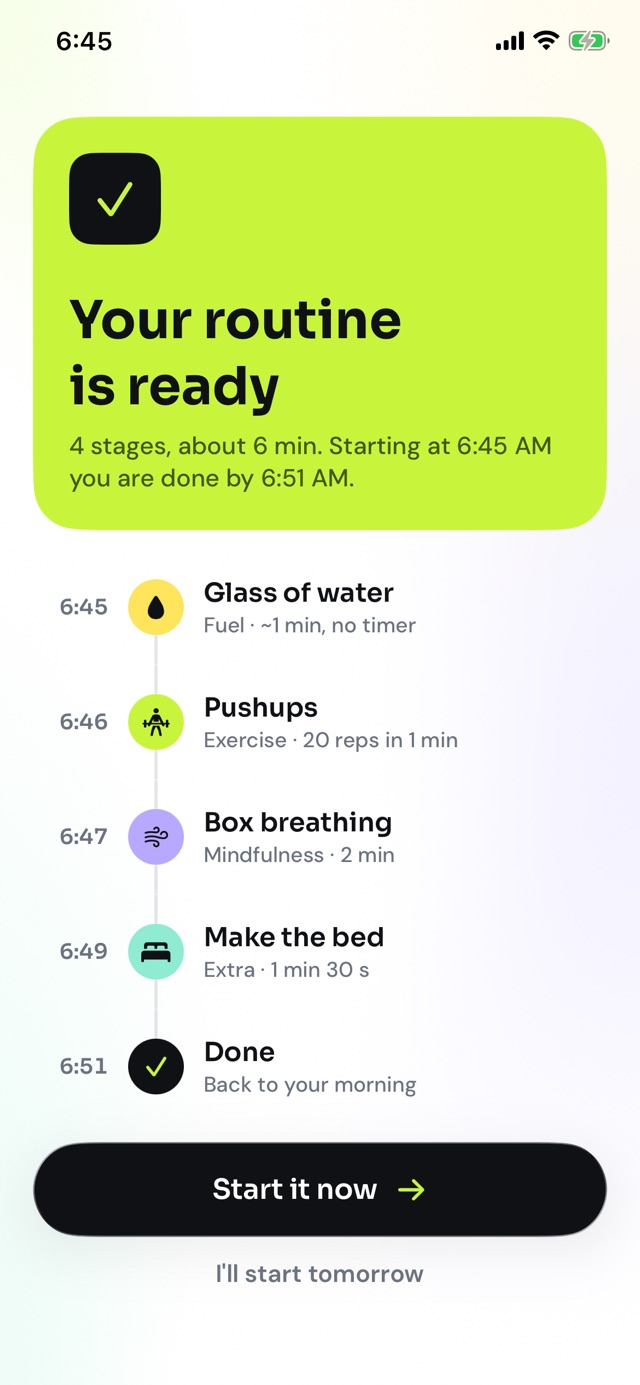
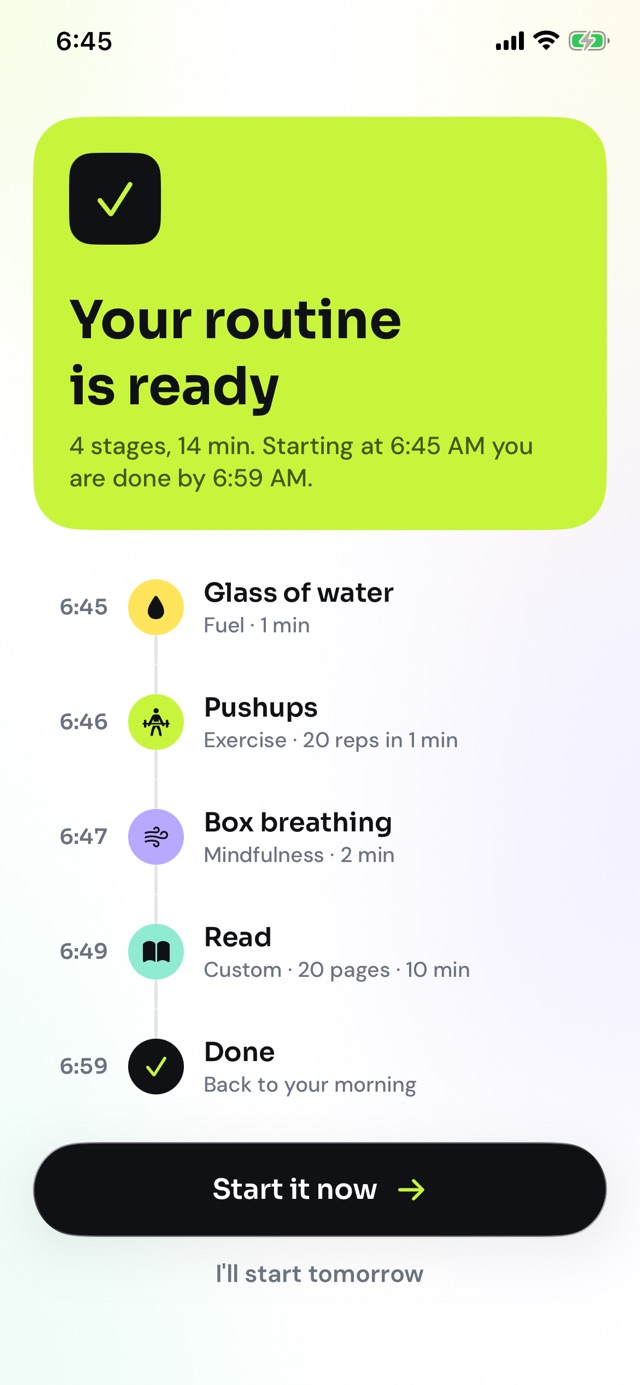
Publish the site from daybreak@63c6e0b

diff --git a/index.html b/index.html
@@ -14,7 +14,7 @@
 <link rel="preconnect" href="https://fonts.googleapis.com">
 <link rel="preconnect" href="https://fonts.gstatic.com" crossorigin>
 <link rel="stylesheet" href="https://fonts.googleapis.com/css2?family=DM+Sans:opsz,wght@9..40,400..700&family=Sora:wght@500..700&display=swap">
-<link rel="stylesheet" href="https://fonts.googleapis.com/css2?family=Material+Symbols+Rounded:opsz,wght,FILL,GRAD@24,500,1,0&icon_names=air,arrow_downward,arrow_forward,bed,check,cloud,directions_run,favorite,local_fire_department,lock,notifications,pause,phone_iphone,play_arrow,water_drop&display=block">
+<link rel="stylesheet" href="https://fonts.googleapis.com/css2?family=Material+Symbols+Rounded:opsz,wght,FILL,GRAD@24,500,1,0&icon_names=air,arrow_downward,arrow_forward,check,cloud,directions_run,favorite,local_fire_department,lock,menu_book,notifications,pause,phone_iphone,play_arrow,water_drop&display=block">
 <style>
 /* Layout: a sunrise. A light sky where a liquid-glass sun, colored by the stage on
    screen, rises over a dark horizon behind a 3D phone; below the horizon it is night,
@@ -888,10 +888,10 @@ a.store:hover::after { translate: 120% 0; }
           <div class="pfront">
             <div class="pbezel">
               <div class="pscreen" data-hero-screens>
-                <img class="scr" src="img/stage-water.jpg" width="640" height="1385" decoding="async" alt="Stage 1, a glass of water, on a yellow page: tap Done when the glass is empty.">
+                <img class="scr" src="img/stage-water.jpg" width="640" height="1385" decoding="async" alt="Stage 1, a glass of water, on a yellow page: 0:54 left on its countdown.">
                 <img class="scr is-on" src="img/stage-pushups.jpg" width="640" height="1385" alt="Stage 2, pushups, on a lime page: the pace dot moves around a box, rep 3 of 20.">
                 <img class="scr" src="img/stage-breathing.jpg" width="640" height="1385" decoding="async" alt="Stage 3, box breathing, on a purple page: hold for 2, with 1:54 left.">
-                <img class="scr" src="img/stage-bed.jpg" width="640" height="1385" decoding="async" alt="Stage 4, make the bed, on a mint page: 1:21 left on the timer.">
+                <img class="scr" src="img/stage-read.jpg" width="640" height="1385" decoding="async" alt="Stage 4, a stage of your own, Read, on a mint page: a goal of 20 pages, 9:46 left on the timer.">
                 <span class="island" aria-hidden="true"></span>
               </div>
             </div>
@@ -925,16 +925,16 @@ a.store:hover::after { translate: 120% 0; }
           <span style="--c: var(--yellow)" data-stage-chip><span class="ms">water_drop</span></span>
           <span style="--c: var(--lime)" data-stage-chip class="is-on"><span class="ms">directions_run</span></span>
           <span style="--c: var(--purple)" data-stage-chip><span class="ms">air</span></span>
-          <span style="--c: var(--mint)" data-stage-chip><span class="ms">bed</span></span>
+          <span style="--c: var(--mint)" data-stage-chip><span class="ms">menu_book</span></span>
         </div>
-        <p class="fc-sub">About 6 min</p>
+        <p class="fc-sub">14 min</p>
       </div>
 
       <div class="stage-track glass-dark" role="group" aria-label="Stages on the phone">
         <button type="button" class="seg" data-seg style="--c: var(--yellow)" aria-label="Show stage 1, glass of water"><span class="bar"><span class="fill"></span></span></button>
         <button type="button" class="seg is-on" data-seg style="--c: var(--lime)" aria-label="Show stage 2, pushups" aria-current="step"><span class="bar"><span class="fill"></span></span></button>
         <button type="button" class="seg" data-seg style="--c: var(--purple)" aria-label="Show stage 3, box breathing"><span class="bar"><span class="fill"></span></span></button>
-        <button type="button" class="seg" data-seg style="--c: var(--mint)" aria-label="Show stage 4, make the bed"><span class="bar"><span class="fill"></span></span></button>
+        <button type="button" class="seg" data-seg style="--c: var(--mint)" aria-label="Show stage 4, read"><span class="bar"><span class="fill"></span></span></button>
         <button type="button" class="play" data-play aria-label="Pause the stages"><span class="ms" aria-hidden="true">pause</span></button>
       </div>
     </div>
@@ -981,10 +981,10 @@ a.store:hover::after { translate: 120% 0; }
                 <div class="pfront">
                   <div class="pbezel">
                     <div class="pscreen" data-tl-screens>
-                      <img class="scr is-on" src="img/stage-water.jpg" width="640" height="1385" loading="lazy" alt="The fuel stage, a glass of water, on a yellow page: tap Done when the glass is empty.">
+                      <img class="scr is-on" src="img/stage-water.jpg" width="640" height="1385" loading="lazy" alt="The fuel stage, a glass of water, on a yellow page: 0:54 left on its countdown.">
                       <img class="scr" src="img/stage-pushups.jpg" width="640" height="1385" loading="lazy" alt="The exercise stage, pushups, on a lime page: rep 3 of 20, with the pace dot on its box.">
                       <img class="scr" src="img/stage-breathing.jpg" width="640" height="1385" loading="lazy" alt="The mindfulness stage, box breathing, on a purple page: hold for 2.">
-                      <img class="scr" src="img/stage-bed.jpg" width="640" height="1385" loading="lazy" alt="The extra stage, make the bed, on a mint page: 1:21 left.">
+                      <img class="scr" src="img/stage-read.jpg" width="640" height="1385" loading="lazy" alt="A stage of your own, Read, on a mint page: a goal of 20 pages, 9:46 left.">
                       <img class="scr" src="img/stage-done.jpg" width="640" height="1385" loading="lazy" alt="Routine complete: all four stages done, and the streak ring counts the morning.">
                       <span class="island" aria-hidden="true"></span>
                     </div>
@@ -1003,7 +1003,7 @@ a.store:hover::after { translate: 120% 0; }
                 <span class="tl-marker" aria-hidden="true"><span class="ms ms-stage">water_drop</span><span class="ms ms-done">check</span></span>
                 <div class="tl-body">
                   <h3>Fuel</h3>
-                  <p class="tl-text">A drink or a bite to start the day. There's no timer on fuel, so tap Done when you've finished.</p>
+                  <p class="tl-text">A drink or a bite to start the day, on a short countdown so it doesn't drift. Finish early when you're done.</p>
                   <ul class="tl-chips">
                     <li class="tl-chip">Glass of water</li>
                     <li class="tl-chip">Black coffee</li>
@@ -1036,14 +1036,14 @@ a.store:hover::after { translate: 120% 0; }
                 </div>
               </li>
               <li class="tl-item" style="--c: var(--mint)" data-color="#8FEBD2" data-time="7:00">
-                <span class="tl-marker" aria-hidden="true"><span class="ms ms-stage">bed</span><span class="ms ms-done">check</span></span>
+                <span class="tl-marker" aria-hidden="true"><span class="ms ms-stage">menu_book</span><span class="ms ms-done">check</span></span>
                 <div class="tl-body">
-                  <h3>Extra</h3>
-                  <p class="tl-text">Any other habit you want in your morning, each with a countdown you can read from across the room. When the time is up, an alarm rings.</p>
+                  <h3>Your own</h3>
+                  <p class="tl-text">Anything else in your morning, made your way. Give it a name, an icon and a length, and goals in time, reps, distance or a unit of your own. After Done, you log what you did.</p>
                   <ul class="tl-chips">
+                    <li class="tl-chip">Read 20 pages</li>
                     <li class="tl-chip">Make the bed</li>
-                    <li class="tl-chip">Cold shower</li>
-                    <li class="tl-chip">Sunlight</li>
+                    <li class="tl-chip">3 km run</li>
                   </ul>
                 </div>
               </li>
@@ -1069,12 +1069,12 @@ a.store:hover::after { translate: 120% 0; }
           <div class="lp-copy">
             <p class="eyebrow">Set up in a minute</p>
             <h2 class="huge" id="build-title">Build it<br>once.</h2>
-            <p>Choose your stages, then set a start time and the days. Every morning after that, Daybreak has it ready.</p>
+            <p>Say how long you have and choose your stages, then set a start time and the days. Every morning after that, Daybreak has it ready.</p>
           </div>
           <ol class="steps">
             <li>
               <span class="n">1</span>
-              <div><b>Choose your stages</b><p>Start with fuel, exercise and mindfulness, then add up to two extras, like making the bed.</p></div>
+              <div><b>Choose your stages</b><p>Pick one or more for fuel, exercise and mindfulness, with a live clock showing how much of your time is left. Then add stages of your own.</p></div>
               <span class="step-shot" aria-hidden="true"><span class="mini-phone"><span><img src="img/onboard-stages.jpg" width="640" height="1385" loading="lazy" alt=""></span></span></span>
             </li>
             <li>
